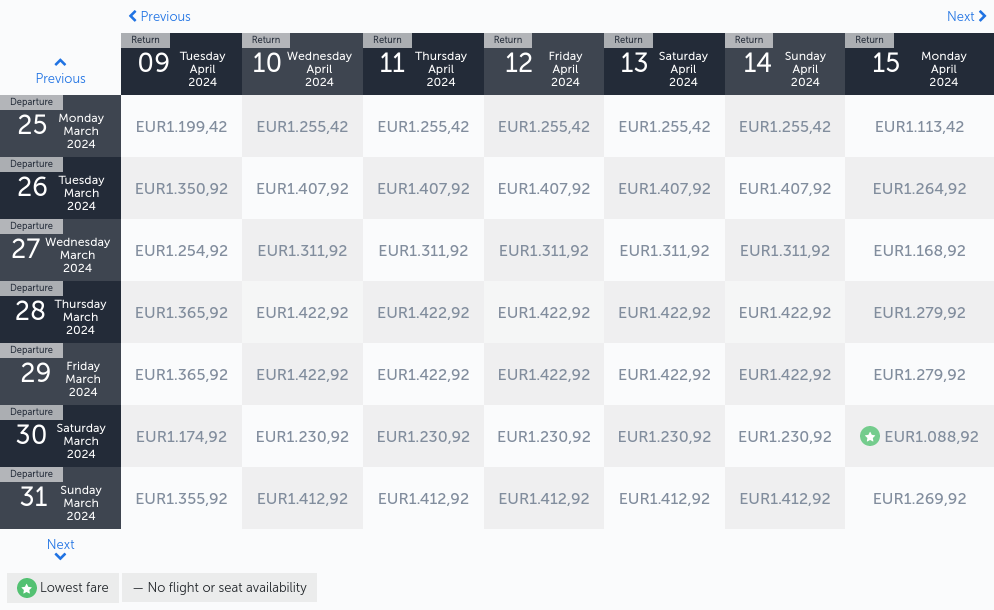
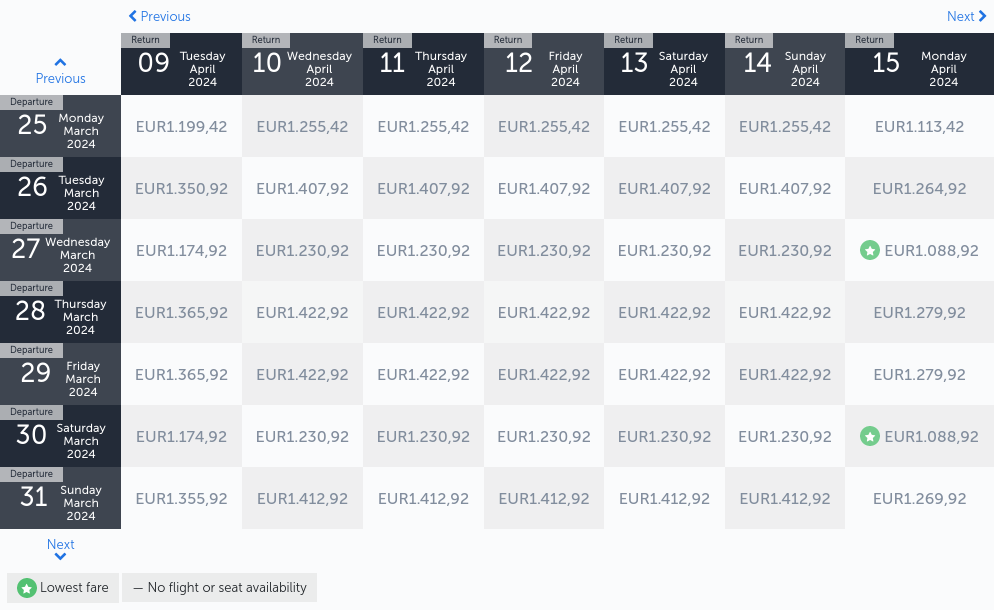
Latest scraping taiwan: Sat Jul 29 16:40:11 UTC 2023

diff --git a/scrapes/taiwan/turkish-airlines.md b/scrapes/taiwan/turkish-airlines.md
@@ -4,7 +4,7 @@
 | --- | --- | --- | --- | --- | --- | --- | --- |
 | Departure<br><br>25 Monday March 2024 | 1.199,42 | 1.255,42 | 1.255,42 | 1.255,42 | 1.255,42 | 1.255,42 | 1.113,42 |
 | Departure<br><br>26 Tuesday March 2024 | 1.350,92 | 1.407,92 | 1.407,92 | 1.407,92 | 1.407,92 | 1.407,92 | 1.264,92 |
-| Departure<br><br>27 Wednesday March 2024 | 1.254,92 | 1.311,92 | 1.311,92 | 1.311,92 | 1.311,92 | 1.311,92 | 1.168,92 |
+| Departure<br><br>27 Wednesday March 2024 | 1.174,92 | 1.230,92 | 1.230,92 | 1.230,92 | 1.230,92 | 1.230,92 | 1.088,92 |
 | Departure<br><br>28 Thursday March 2024 | 1.365,92 | 1.422,92 | 1.422,92 | 1.422,92 | 1.422,92 | 1.422,92 | 1.279,92 |
 | Departure<br><br>29 Friday March 2024 | 1.365,92 | 1.422,92 | 1.422,92 | 1.422,92 | 1.422,92 | 1.422,92 | 1.279,92 |
 | Departure<br><br>30 Saturday March 2024 | 1.174,92 | 1.230,92 | 1.230,92 | 1.230,92 | 1.230,92 | 1.230,92 | 1.088,92 |
